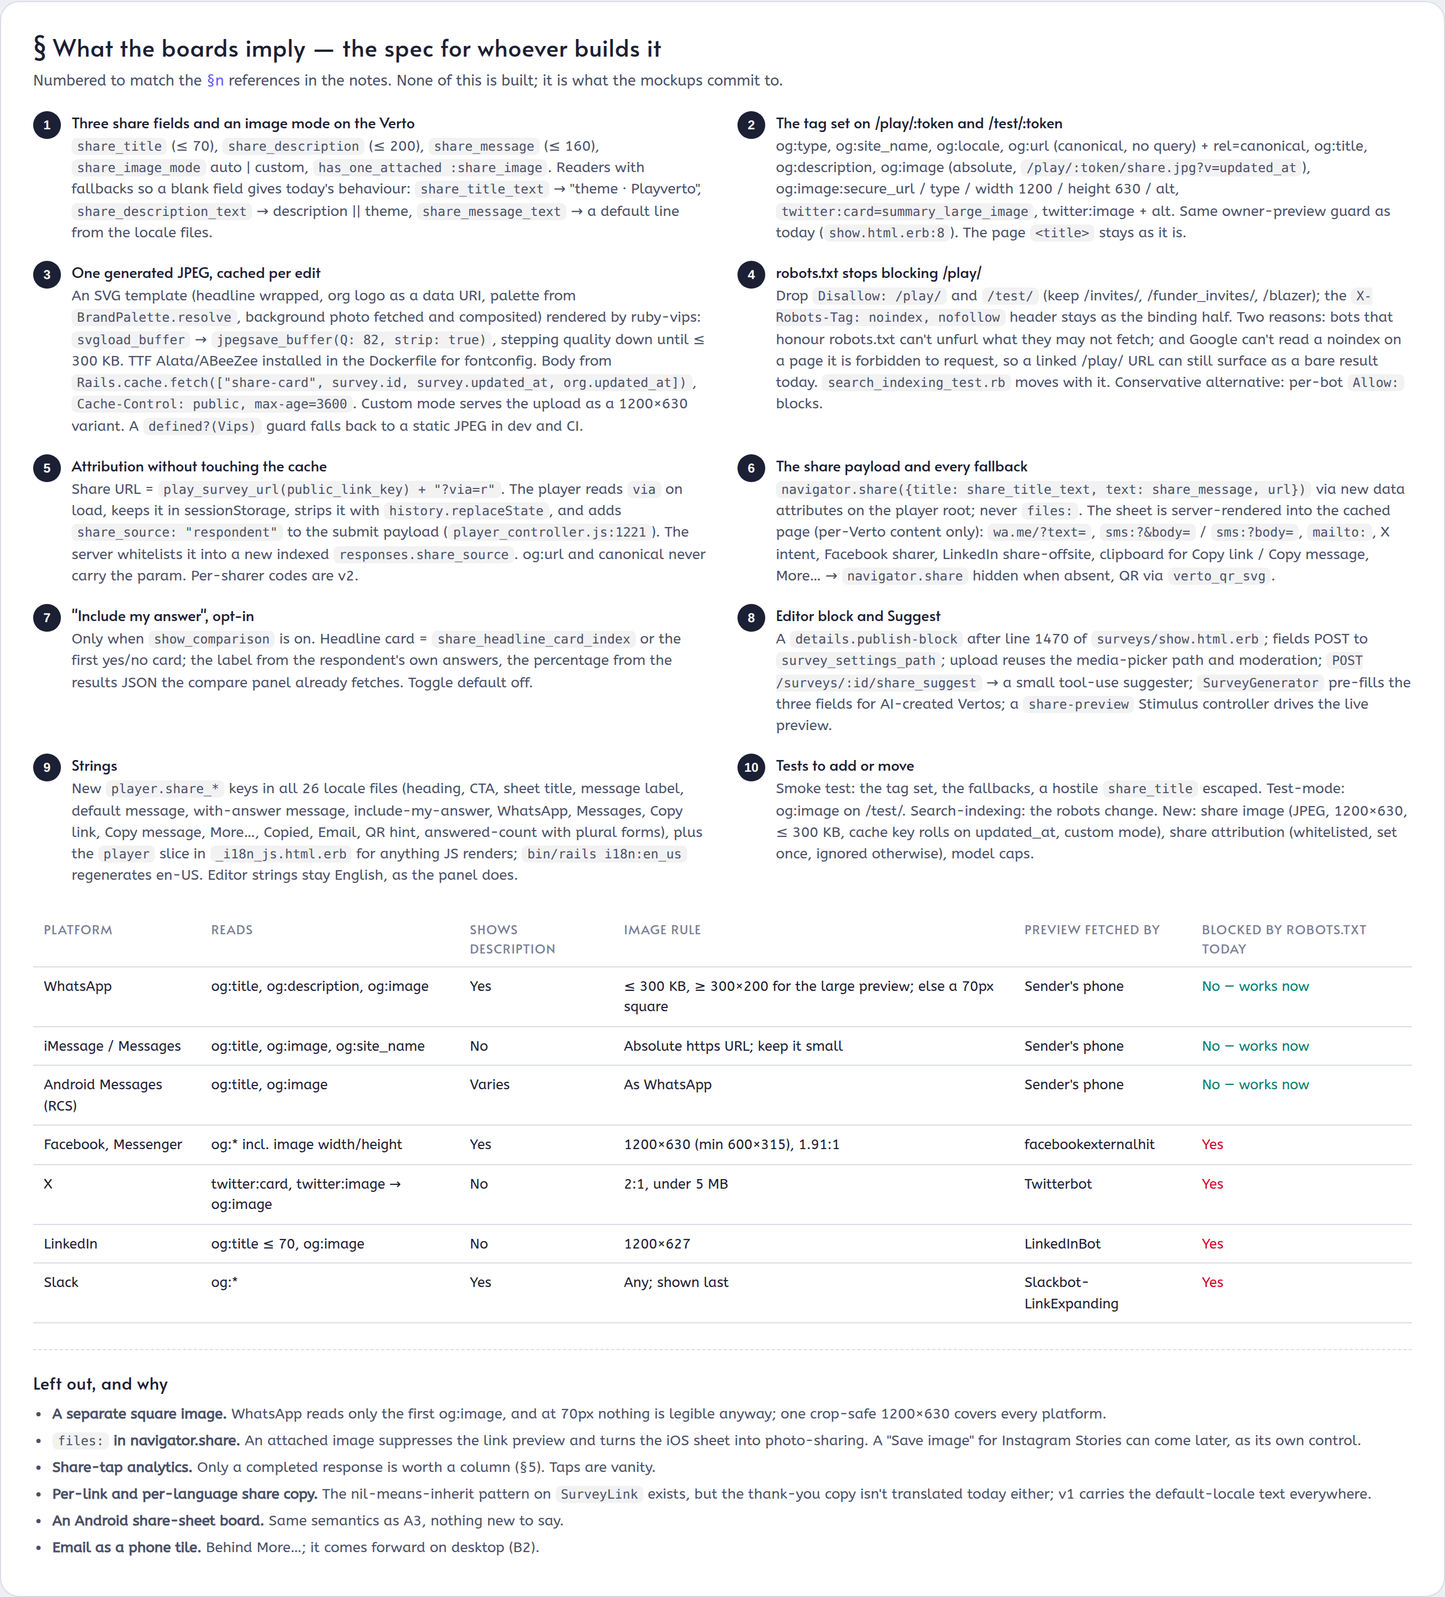
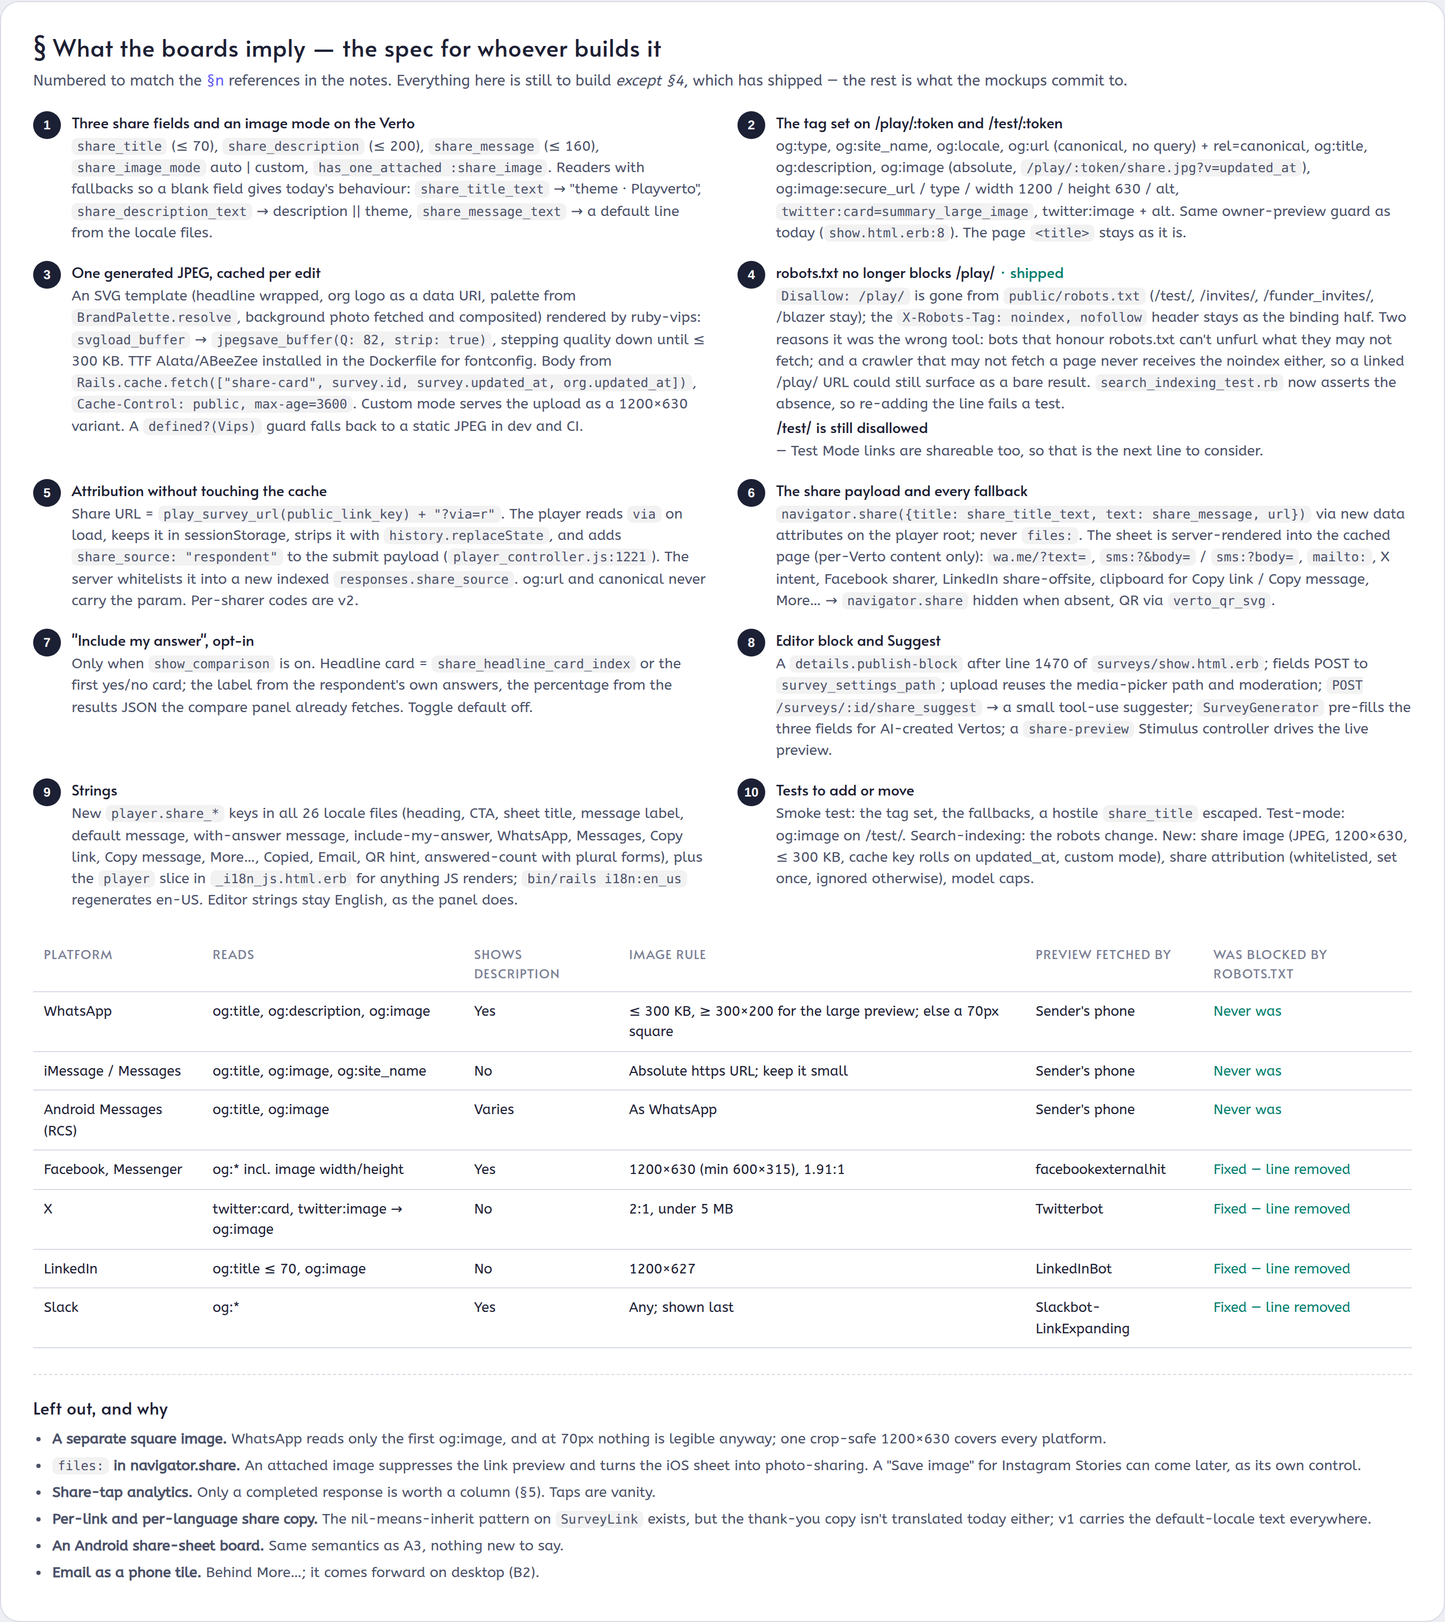
Let shared /play/ links unfurl: drop Disallow: /play/
The player has rendered og:/twitter: tags since social recruitment became a
real distribution channel for a Verto, but robots.txt was cancelling them
on four platforms: Facebook/Messenger, X, LinkedIn and Slack all read this
file before fetching a URL to unfurl it, so a shared Verto arrived there as
a bare link. WhatsApp and iMessage were unaffected only because they build
the preview on the sender's own device.

It also worked against the noindex it was meant to reinforce. A crawler
that may not FETCH a URL never receives the X-Robots-Tag telling it not to
index, so a /play/ link picked up from elsewhere could still surface as a
bare URL — the outcome the Disallow existed to prevent. Allowing the fetch
is what lets the binding half bind.

A /play/ token is still a capability and still unwanted in search; the
header says so on every response and is untouched here. /test/, /invites/,
/funder_invites/ and /blazer keep their lines.

The test asserts /play/ is absent rather than just dropping it from the
list, so re-adding the line fails instead of quietly breaking previews.
The responder-share mockups are updated to match (build -b): the four
platform tiles no longer read "blocked by robots.txt today", and spec §4
is marked shipped.

Claude-Session: https://claude.ai/code/session_019TYje1U3VT9CEaB8iwA1BB

diff --git a/docs/mockups/responder-share/index.html b/docs/mockups/responder-share/index.html
@@ -1,5 +1,5 @@
 <!DOCTYPE html>
-<!-- responder-share mockups · build 2026-09-08-a · view-source and check this line to confirm
+<!-- responder-share mockups · build 2026-09-08-b · view-source and check this line to confirm
      which copy your browser is showing (a stale cache is otherwise invisible).
      Fictional example throughout: "Haverley Town Council" does not exist. -->
 <html lang="en" data-build="2026-09-08-a">
@@ -526,7 +526,7 @@ code{font:12px/1.4 ui-monospace,SFMono-Regular,Menlo,Consolas,monospace;backgrou
 
 <header class="hero">
   <div class="wrap">
-    <div class="eyebrow">Mockups · respondent share · build 2026-09-08-a</div>
+    <div class="eyebrow">Mockups · respondent share · build 2026-09-08-b</div>
     <h1>Pass it on: letting a respondent send the Verto to friends and family</h1>
     <p>What the end of a Verto offers, what the friend receives in WhatsApp, Messages and the feeds, the social image behind the link, and where the creator writes the narrative headline. A change.org-style share: a headline that tells the story, a picture, and a message in the respondent's own voice.</p>
     <div class="meta"><span>Fictional example: Haverley Town Council</span><span>Player at 390×844 and 1280×800</span><span>Share image at 1200×630</span><span>Spec for the implementer at the foot</span></div>
@@ -878,7 +878,7 @@ code{font:12px/1.4 ui-monospace,SFMono-Regular,Menlo,Consolas,monospace;backgrou
         <div class="note">Text bubble, then a rich link card: image, og:title, host. og:description is never shown, so the headline must carry the story on its own. Needs an absolute https og:image.</div>
         <span class="co abs" style="right:12px;top:52px">3</span></div>
 
-      <div class="utile"><div class="lbl"><span class="dot" style="background:#0866FF"></span>Facebook / Messenger<span class="rb bad">blocked by robots.txt today</span></div>
+      <div class="utile"><div class="lbl"><span class="dot" style="background:#0866FF"></span>Facebook / Messenger<span class="rb">crawlable — robots fix shipped</span></div>
         <div class="body">
           <div class="fb-post"><span class="av"></span><span><b>Priya Raman</b><small>Just now · 👥</small></span></div>
           <div class="x-post" style="font-size:14px;margin-bottom:8px">I just had my say on whether Haverley High Street should go car-free — it took two minutes. Add yours before the council decides on 14 October:</div>
@@ -887,7 +887,7 @@ code{font:12px/1.4 ui-monospace,SFMono-Regular,Menlo,Consolas,monospace;backgrou
         <div class="note">Reads og:image with og:image:width/height, host, title, description. Caches the unfurl by page URL — a copy change needs the Sharing Debugger to re-scrape; the <code>?v=</code> on the image URL refreshes the picture.</div>
         <span class="co abs" style="right:12px;top:52px">4</span></div>
 
-      <div class="utile"><div class="lbl"><span class="dot" style="background:#000"></span>X<span class="rb bad">blocked by robots.txt today</span></div>
+      <div class="utile"><div class="lbl"><span class="dot" style="background:#000"></span>X<span class="rb">crawlable — robots fix shipped</span></div>
         <div class="body">
           <div class="x-head"><span class="av"></span><span><b>Priya Raman</b><small>@priya_r · 2m</small></span></div>
           <div class="x-post">I just had my say on whether Haverley High Street should go car-free — it took two minutes. Add yours before the council decides on 14 October:</div>
@@ -897,7 +897,7 @@ code{font:12px/1.4 ui-monospace,SFMono-Regular,Menlo,Consolas,monospace;backgrou
         <div class="note"><code>twitter:card=summary_large_image</code>, image at 2:1 (15px shaved top and bottom), the title as an overlay pill — one line, ellipsised. No description.</div>
         <span class="co abs" style="right:12px;top:52px">5</span></div>
 
-      <div class="utile"><div class="lbl"><span class="dot" style="background:#0A66C2"></span>LinkedIn<span class="rb bad">blocked by robots.txt today</span></div>
+      <div class="utile"><div class="lbl"><span class="dot" style="background:#0A66C2"></span>LinkedIn<span class="rb">crawlable — robots fix shipped</span></div>
         <div class="body">
           <div class="fb-post"><span class="av"></span><span><b>Priya Raman</b><small>Resident · 2m</small></span></div>
           <div class="li-post">I just had my say on whether Haverley High Street should go car-free — it took two minutes. Add yours before the council decides on 14 October:</div>
@@ -906,7 +906,7 @@ code{font:12px/1.4 ui-monospace,SFMono-Regular,Menlo,Consolas,monospace;backgrou
         <div class="note">og:image at 1200×627 or 1.91:1, og:title ≤ 70 characters. No description on the card.</div>
         <span class="co abs" style="right:12px;top:52px">6</span></div>
 
-      <div class="utile" style="grid-column:span 2"><div class="lbl"><span class="dot" style="background:#4A154B"></span>Slack<span class="rb bad">blocked by robots.txt today</span></div>
+      <div class="utile" style="grid-column:span 2"><div class="lbl"><span class="dot" style="background:#4A154B"></span>Slack<span class="rb">crawlable — robots fix shipped</span></div>
         <div class="body"><div class="sl-msg"><span class="av"></span><div>
           <div class="who">Priya Raman<small>14:07</small></div>
           <div class="txt">I just had my say on whether Haverley High Street should go car-free — it took two minutes. Add yours before the council decides on 14 October: <span class="u">https://app.playverto.com/play/haverley-high-street?via=r</span></div>
@@ -928,7 +928,7 @@ code{font:12px/1.4 ui-monospace,SFMono-Regular,Menlo,Consolas,monospace;backgrou
       <li><span class="co">1</span><p>All seven read the same tag set. og:title is the headline everywhere; og:description shows on WhatsApp, Facebook and Slack but <em>not</em> on iMessage, X or LinkedIn — the headline has to stand alone.<span class="ref">§2</span></p></li>
       <li><span class="co">2</span><p>One rule decides between the large preview and the small thumbnail on WhatsApp: a 1200×630 JPEG under 300 KB. The mockup card saves at ~120 KB at quality 82.<span class="ref">§3</span></p></li>
       <li><span class="co">3</span><p>iMessage previews are built on the sender's phone and need an absolute https image URL; the page's <code>&lt;title&gt;</code> is ignored in favour of og:title.</p></li>
-      <li><span class="co">4</span><p>Facebook's crawler is documented as honouring robots.txt, and X, LinkedIn and Slack's do. <code>Disallow: /play/</code> means the four right-hand tiles currently get nothing. The robots change in §4 is what buys them; WhatsApp and iMessage already work.<span class="ref">§4</span></p></li>
+      <li><span class="co">4</span><p>Facebook's crawler is documented as honouring robots.txt, and X, LinkedIn and Slack's do — so <code>Disallow: /play/</code> used to leave the four right-hand tiles with nothing. <b>That line is now removed</b>, so all seven can fetch the page; what they render still waits on the og: tags in §2.<span class="ref">§4</span></p></li>
       <li><span class="co">5</span><p>X trims the 1200×630 to 2:1 and overlays the title, so nothing important sits in the bottom 40px of the image.</p></li>
       <li><span class="co">6</span><p>LinkedIn caps og:title at 70 characters — the counter in the editor (E) enforces the tightest platform, not the loosest.</p></li>
       <li><span class="co">7</span><p>Slack shows everything, image last. Verify each with the Sharing Debugger, Card Validator and Post Inspector after the robots change ships.</p></li>
@@ -1090,12 +1090,12 @@ code{font:12px/1.4 ui-monospace,SFMono-Regular,Menlo,Consolas,monospace;backgrou
 <!-- ═══════════════════════════════════════ SPEC ═════════════════════════════ -->
 <section class="spec" id="spec">
   <h2>§ What the boards imply — the spec for whoever builds it</h2>
-  <p class="lead">Numbered to match the <span class="ref" style="color:var(--purple)">§n</span> references in the notes. None of this is built; it is what the mockups commit to.</p>
+  <p class="lead">Numbered to match the <span class="ref" style="color:var(--purple)">§n</span> references in the notes. Everything here is still to build <em>except §4</em>, which has shipped — the rest is what the mockups commit to.</p>
   <ol class="items">
     <li><span class="n">1</span><div><b>Three share fields and an image mode on the Verto</b><code>share_title</code> (≤ 70), <code>share_description</code> (≤ 200), <code>share_message</code> (≤ 160), <code>share_image_mode</code> auto | custom, <code>has_one_attached :share_image</code>. Readers with fallbacks so a blank field gives today's behaviour: <code>share_title_text</code> → "theme · Playverto", <code>share_description_text</code> → description || theme, <code>share_message_text</code> → a default line from the locale files.</div></li>
     <li><span class="n">2</span><div><b>The tag set on /play/:token and /test/:token</b>og:type, og:site_name, og:locale, og:url (canonical, no query) + rel=canonical, og:title, og:description, og:image (absolute, <code>/play/:token/share.jpg?v=updated_at</code>), og:image:secure_url / type / width 1200 / height 630 / alt, <code>twitter:card=summary_large_image</code>, twitter:image + alt. Same owner-preview guard as today (<code>show.html.erb:8</code>). The page <code>&lt;title&gt;</code> stays as it is.</div></li>
     <li><span class="n">3</span><div><b>One generated JPEG, cached per edit</b>An SVG template (headline wrapped, org logo as a data URI, palette from <code>BrandPalette.resolve</code>, background photo fetched and composited) rendered by ruby-vips: <code>svgload_buffer</code> → <code>jpegsave_buffer(Q: 82, strip: true)</code>, stepping quality down until ≤ 300 KB. TTF Alata/ABeeZee installed in the Dockerfile for fontconfig. Body from <code>Rails.cache.fetch(["share-card", survey.id, survey.updated_at, org.updated_at])</code>, <code>Cache-Control: public, max-age=3600</code>. Custom mode serves the upload as a 1200×630 variant. A <code>defined?(Vips)</code> guard falls back to a static JPEG in dev and CI.</div></li>
-    <li><span class="n">4</span><div><b>robots.txt stops blocking /play/</b>Drop <code>Disallow: /play/</code> and <code>/test/</code> (keep /invites/, /funder_invites/, /blazer); the <code>X-Robots-Tag: noindex, nofollow</code> header stays as the binding half. Two reasons: bots that honour robots.txt can't unfurl what they may not fetch; and Google can't read a noindex on a page it is forbidden to request, so a linked /play/ URL can still surface as a bare result today. <code>search_indexing_test.rb</code> moves with it. Conservative alternative: per-bot <code>Allow:</code> blocks.</div></li>
+    <li><span class="n">4</span><div><b>robots.txt no longer blocks /play/ <span style="color:var(--aqua-ink)">· shipped</span></b><code>Disallow: /play/</code> is gone from <code>public/robots.txt</code> (/test/, /invites/, /funder_invites/, /blazer stay); the <code>X-Robots-Tag: noindex, nofollow</code> header stays as the binding half. Two reasons it was the wrong tool: bots that honour robots.txt can't unfurl what they may not fetch; and a crawler that may not fetch a page never receives the noindex either, so a linked /play/ URL could still surface as a bare result. <code>search_indexing_test.rb</code> now asserts the absence, so re-adding the line fails a test. <b>/test/ is still disallowed</b> — Test Mode links are shareable too, so that is the next line to consider.</div></li>
     <li><span class="n">5</span><div><b>Attribution without touching the cache</b>Share URL = <code>play_survey_url(public_link_key) + "?via=r"</code>. The player reads <code>via</code> on load, keeps it in sessionStorage, strips it with <code>history.replaceState</code>, and adds <code>share_source: "respondent"</code> to the submit payload (<code>player_controller.js:1221</code>). The server whitelists it into a new indexed <code>responses.share_source</code>. og:url and canonical never carry the param. Per-sharer codes are v2.</div></li>
     <li><span class="n">6</span><div><b>The share payload and every fallback</b><code>navigator.share({title: share_title_text, text: share_message, url})</code> via new data attributes on the player root; never <code>files:</code>. The sheet is server-rendered into the cached page (per-Verto content only): <code>wa.me/?text=</code>, <code>sms:?&amp;body=</code> / <code>sms:?body=</code>, <code>mailto:</code>, X intent, Facebook sharer, LinkedIn share-offsite, clipboard for Copy link / Copy message, More… → <code>navigator.share</code> hidden when absent, QR via <code>verto_qr_svg</code>.</div></li>
     <li><span class="n">7</span><div><b>"Include my answer", opt-in</b>Only when <code>show_comparison</code> is on. Headline card = <code>share_headline_card_index</code> or the first yes/no card; the label from the respondent's own answers, the percentage from the results JSON the compare panel already fetches. Toggle default off.</div></li>
@@ -1105,15 +1105,15 @@ code{font:12px/1.4 ui-monospace,SFMono-Regular,Menlo,Consolas,monospace;backgrou
   </ol>
 
   <table>
-    <thead><tr><th>Platform</th><th>Reads</th><th>Shows description</th><th>Image rule</th><th>Preview fetched by</th><th>Blocked by robots.txt today</th></tr></thead>
+    <thead><tr><th>Platform</th><th>Reads</th><th>Shows description</th><th>Image rule</th><th>Preview fetched by</th><th>Was blocked by robots.txt</th></tr></thead>
     <tbody>
-      <tr><td>WhatsApp</td><td>og:title, og:description, og:image</td><td>Yes</td><td>≤ 300 KB, ≥ 300×200 for the large preview; else a 70px square</td><td>Sender's phone</td><td class="yes">No — works now</td></tr>
-      <tr><td>iMessage / Messages</td><td>og:title, og:image, og:site_name</td><td>No</td><td>Absolute https URL; keep it small</td><td>Sender's phone</td><td class="yes">No — works now</td></tr>
-      <tr><td>Android Messages (RCS)</td><td>og:title, og:image</td><td>Varies</td><td>As WhatsApp</td><td>Sender's phone</td><td class="yes">No — works now</td></tr>
-      <tr><td>Facebook, Messenger</td><td>og:* incl. image width/height</td><td>Yes</td><td>1200×630 (min 600×315), 1.91:1</td><td>facebookexternalhit</td><td class="no">Yes</td></tr>
-      <tr><td>X</td><td>twitter:card, twitter:image → og:image</td><td>No</td><td>2:1, under 5 MB</td><td>Twitterbot</td><td class="no">Yes</td></tr>
-      <tr><td>LinkedIn</td><td>og:title ≤ 70, og:image</td><td>No</td><td>1200×627</td><td>LinkedInBot</td><td class="no">Yes</td></tr>
-      <tr><td>Slack</td><td>og:*</td><td>Yes</td><td>Any; shown last</td><td>Slackbot-LinkExpanding</td><td class="no">Yes</td></tr>
+      <tr><td>WhatsApp</td><td>og:title, og:description, og:image</td><td>Yes</td><td>≤ 300 KB, ≥ 300×200 for the large preview; else a 70px square</td><td>Sender's phone</td><td class="yes">Never was</td></tr>
+      <tr><td>iMessage / Messages</td><td>og:title, og:image, og:site_name</td><td>No</td><td>Absolute https URL; keep it small</td><td>Sender's phone</td><td class="yes">Never was</td></tr>
+      <tr><td>Android Messages (RCS)</td><td>og:title, og:image</td><td>Varies</td><td>As WhatsApp</td><td>Sender's phone</td><td class="yes">Never was</td></tr>
+      <tr><td>Facebook, Messenger</td><td>og:* incl. image width/height</td><td>Yes</td><td>1200×630 (min 600×315), 1.91:1</td><td>facebookexternalhit</td><td class="yes">Fixed — line removed</td></tr>
+      <tr><td>X</td><td>twitter:card, twitter:image → og:image</td><td>No</td><td>2:1, under 5 MB</td><td>Twitterbot</td><td class="yes">Fixed — line removed</td></tr>
+      <tr><td>LinkedIn</td><td>og:title ≤ 70, og:image</td><td>No</td><td>1200×627</td><td>LinkedInBot</td><td class="yes">Fixed — line removed</td></tr>
+      <tr><td>Slack</td><td>og:*</td><td>Yes</td><td>Any; shown last</td><td>Slackbot-LinkExpanding</td><td class="yes">Fixed — line removed</td></tr>
     </tbody>
   </table>
 

diff --git a/test/integration/search_indexing_test.rb b/test/integration/search_indexing_test.rb
@@ -27,10 +27,25 @@ class SearchIndexingTest < ActionDispatch::IntegrationTest
   test "robots.txt disallows every capability path" do
     body = ROBOTS.read
     assert_match(/^User-agent: \*/, body)
-    %w[/play/ /invites/ /funder_invites/ /blazer].each do |path|
+    %w[/test/ /invites/ /funder_invites/ /blazer].each do |path|
       assert_match(/^Disallow: #{Regexp.escape(path)}\s*$/, body,
                    "robots.txt should disallow #{path}")
     end
+  end
+
+  # /play/ is the deliberate exception, and it is asserted rather than merely
+  # absent from the list above so that re-adding the line fails a test instead
+  # of quietly breaking link previews. Facebook/Messenger, X, LinkedIn and Slack
+  # read robots.txt before fetching a URL to unfurl it, so a Disallow here turns
+  # every shared Verto into a bare link on those platforms — and a crawler that
+  # may not fetch the page never receives the X-Robots-Tag below either, which
+  # is the header actually doing the de-indexing.
+  test "robots.txt does not disallow /play/, so shared links can unfurl" do
+    body = ROBOTS.read
+    refute_match(/^Disallow: \/play\/?\s*$/, body,
+                 "/play/ must stay crawlable: blocking the fetch blocks the link " \
+                 "previews the player's og: tags exist to produce, and stops the " \
+                 "noindex header from ever being read")
   end
 
   test "robots.txt is served" do
@@ -39,7 +54,7 @@ class SearchIndexingTest < ActionDispatch::IntegrationTest
     # but if that ever changes this catches it.
     get "/robots.txt"
     assert_response :success
-    assert_match(/Disallow: \/play\//, response.body)
+    assert_match(/Disallow: \/invites\//, response.body)
   end
 
   # The half that binds. robots.txt is advisory and only reaches a crawler that

diff --git a/docs/mockups/responder-share/README.md b/docs/mockups/responder-share/README.md
@@ -56,8 +56,8 @@ from `file://` and from any host. It follows the build-stamp convention of the
 one-pagers in `public/`:
 
 ```html
-<!-- responder-share mockups · build 2026-09-08-a · … -->
-<html lang="en" data-build="2026-09-08-a">
+<!-- responder-share mockups · build 2026-09-08-b · … -->
+<html lang="en" data-build="2026-09-08-b">
 ```
 
 Bump that stamp when you change the file, and check it in view-source to be sure
